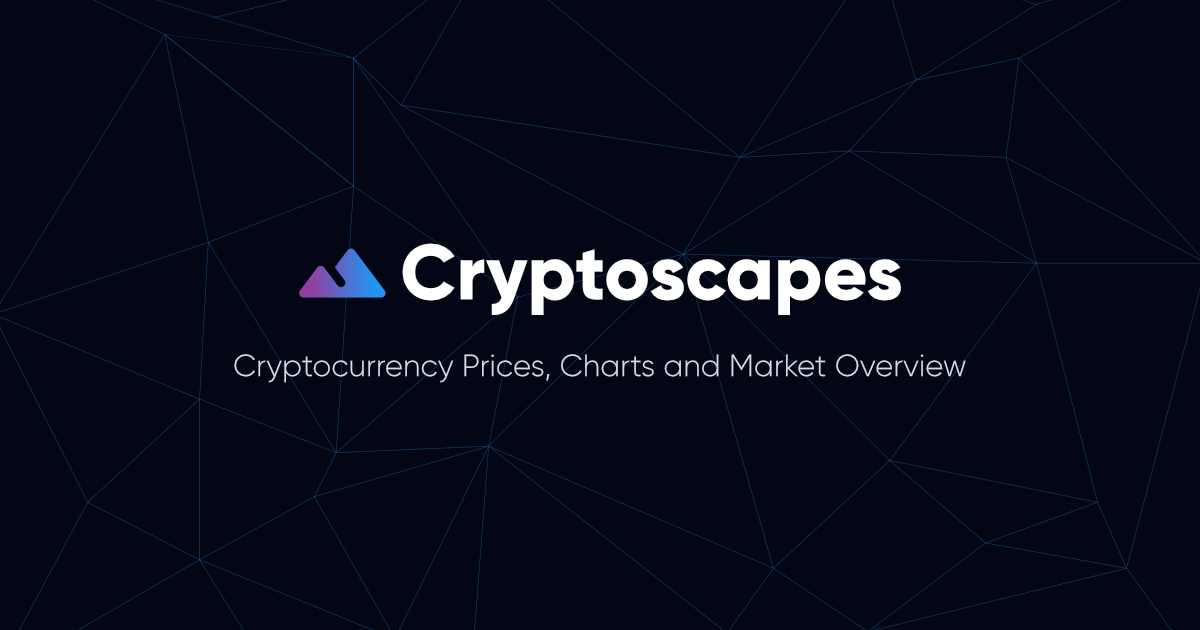
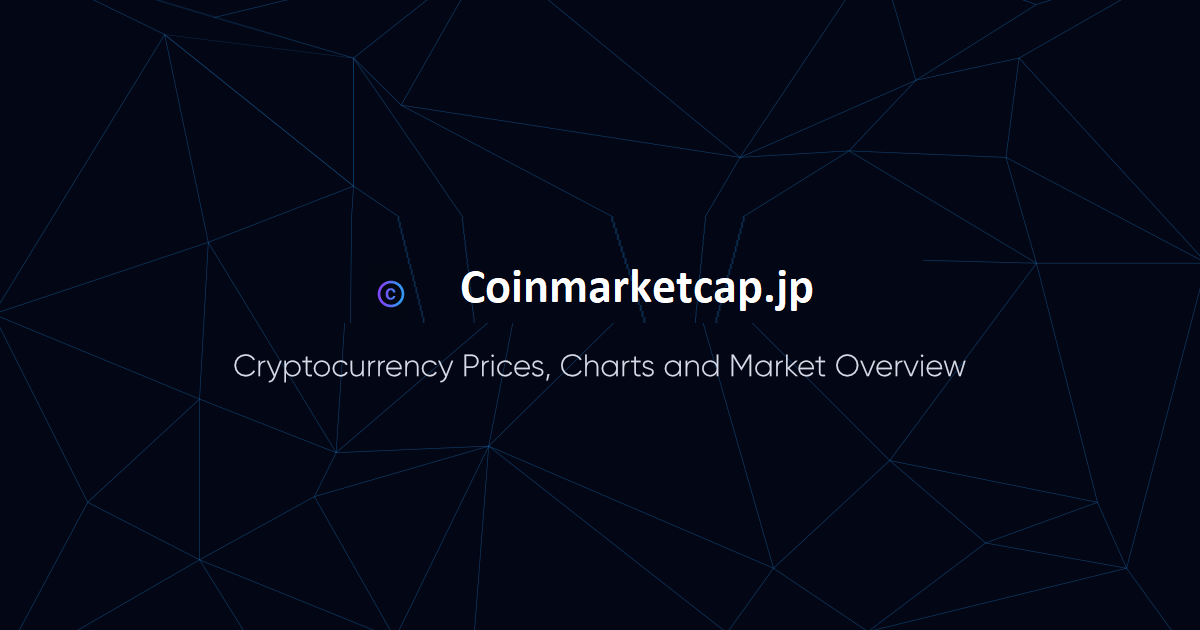
modify readme

Changed region(s): [[0.2467, 0.3619, 0.7708, 0.5127]]

diff --git a/README.md b/README.md
@@ -1,41 +1,1 @@
-[![demo](src/assets/images/card.png)][1]
-
-## ⭐  About
-Cryptoscapes started out from a few skills I wanted to learn and practice over my summer break from college, the state management library [Redux][2], [atomic design][3], and project management.
-
-After tinkering with a bunch of cryptocurrency data with Redux, I eventually decided to create a simple UI to display this data, through the use of charts and graphs in a clean dashboard. Certain visualisations such as a [heatmap][4] displaying metric correlations between cryptocurrencies, also involve further manipulation of the data.
-
-The result was Cryptoscapes, an information dashboard that displays prices, trends, status updates, market snapshots and much more. Visit the website at [cryptoscapes.org][1] to check it out!
-
-## 🛠  Key Technologies
-This project was deployed on AWS and built using:
-
-- React
-- Redux
-- TypeScript
-- Material-UI
-
-## 📝  Data Sources
-The information and data used in Cryptoscapes is provided kindly by the following sources:
-
-- [CoinGecko][5]
-- [ETH Gas Station][6]
-- [Alternative.me][7]
-- [Blockchain.com][8]
-
-## 🚧 Project Board
-The development and task management of this website was done with the help of GitHub Projects, and the project board can be found [here][9].
-
-## 😊  Contact Me
-If you liked the website or just want to get in touch, email me at <a href="mailto:theleonardtng@gmail.com">theleonardtng@gmail.com</a> or drop me a message at the various social media platforms listed at the bottom of [my website][10]. Cheers.
-
-[1]: https://cryptoscapes.org
-[2]: https://https://redux.js.org/
-[3]: https://atomicdesign.bradfrost.com/chapter-2/#:~:text=Atomic%20design%20is%20atoms%2C%20molecules,parts%20at%20the%20same%20time.
-[4]: https://cryptoscapes.org/trends
-[5]: https://www.coingecko.com/
-[6]: https://ethgasstation.info/
-[7]: https://alternative.me/
-[8]: https://www.blockchain.com/
-[9]: https://github.com/leonardtng/cryptoscapes/projects/1
-[10]: https://leonardtng.com
+Welcome to Coinmarketcap.jp
